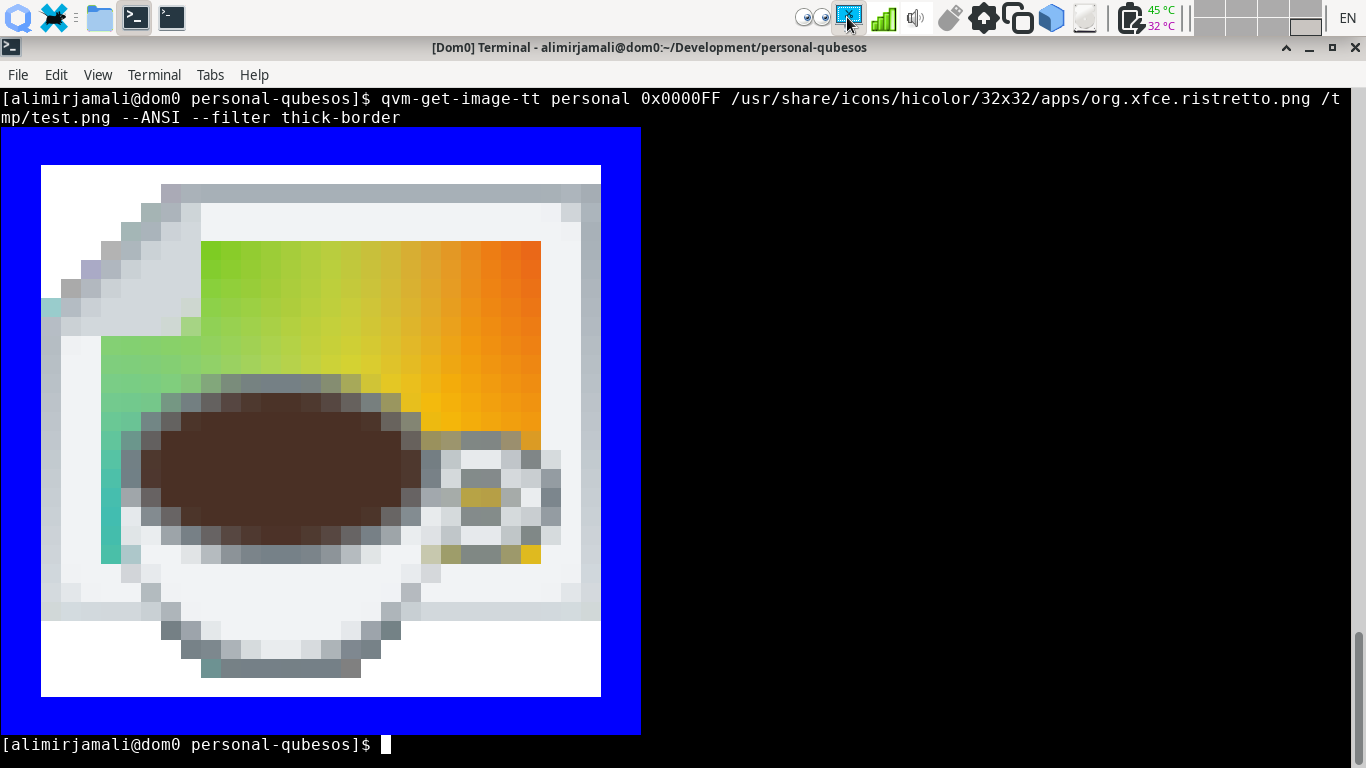
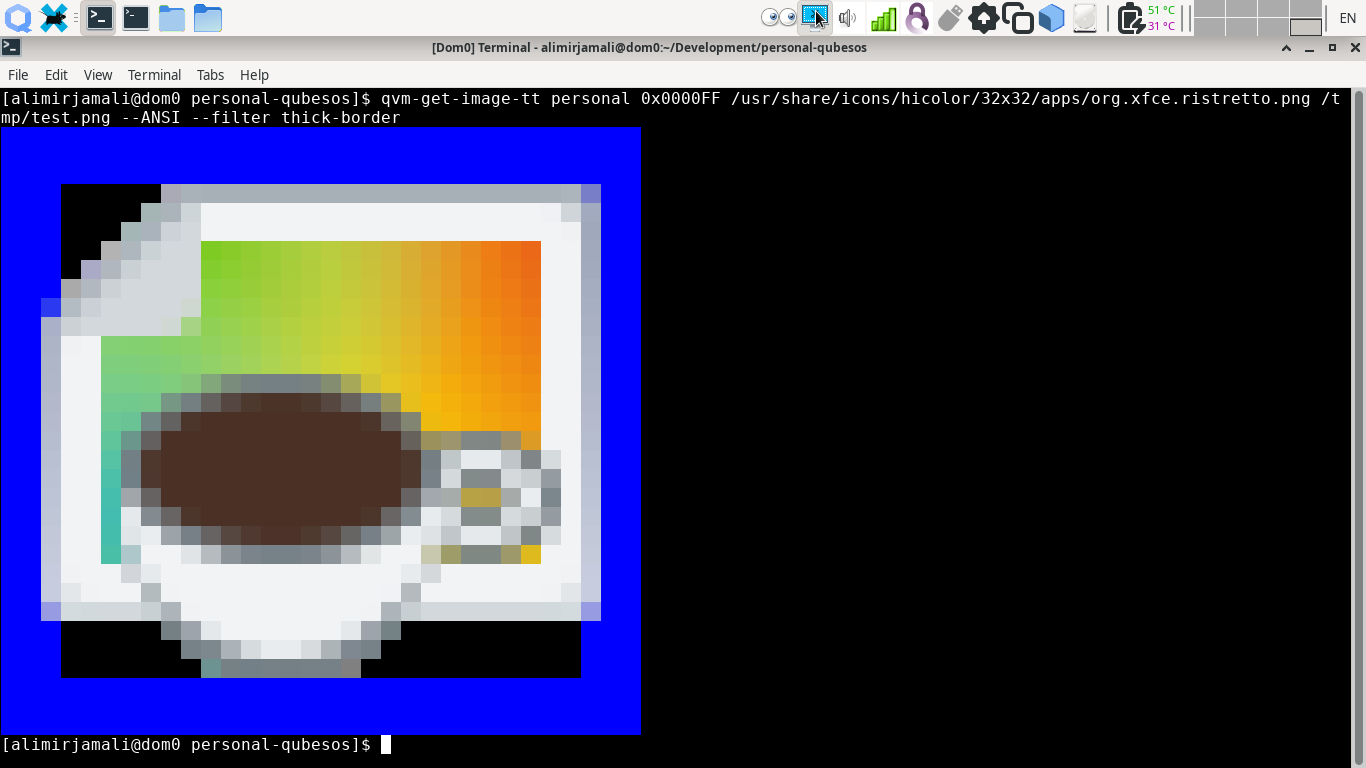
Refactoring qubesimgconvertertt. Upgrading borders with Alphacompositor

diff --git a/qubesimgconvertertt/__init__.py b/qubesimgconvertertt/__init__.py
@@ -24,6 +24,7 @@
 import qubesimgconverter
 from qubesimgconverter import hex_to_int
 import numpy
+import math
 
 '''Note to self: qubesimgconverter.Image.tint is using numpy's old- '''
 '''deprecated binary mode of fromstring. as it behaves surprisingly-'''
@@ -45,13 +46,13 @@ class Image(qubesimgconverter.Image):
             print("\033[0m")
 
     def alphacompositor(self, back):
-        ''' Compositing self on top of another Image. See: '''
+        ''' Compositing Image on top of another Image. See: '''
         ''' https://en.wikipedia.org/wiki/Alpha_compositing for more info '''
         tPixels = numpy.frombuffer(self._rgba, dtype=numpy.uint8).reshape(\
                 self.height, self.width, 4).astype(numpy.single)
         bPixels = numpy.frombuffer(back._rgba, dtype=numpy.uint8).reshape(\
                 back.height, back.width, 4).astype(numpy.single)
-        ''' If top image and back image dimensions are different: '''
+        ''' Top image and back image dimensions might be different: '''
         w = max(self.width, back.width)
         h = max(self.height, back.height)
         tPixels = numpy.pad(tPixels, [(0, w - self.width), \
@@ -74,62 +75,43 @@ class Image(qubesimgconverter.Image):
 
         return self.__class__(rgba=outRGBA.tobytes(), size=[w, h])
 
-    def overlay(self, colour):
+    def overlay(self, color):
         ''' Overlay image on a solid block of color, using its Alpha channel '''
-        rb, gb, bb = hex_to_int(colour)
-        pixels = numpy.frombuffer(self._rgba, dtype=numpy.uint8).reshape(\
-                self.height * self.width, 4).astype(numpy.uint32)
-        r = pixels[:, 0]
-        g = pixels[:, 1]
-        b = pixels[:, 2]
-        a = pixels[:, 3]
-        r = (((a * r) + (255 - a) * rb) / 255).astype(numpy.uint8)
-        g = (((a * g) + (255 - a) * gb) / 255).astype(numpy.uint8)
-        b = (((a * b) + (255 - a) * bb) / 255).astype(numpy.uint8)
-        a.fill(255)
-        pixelso = numpy.column_stack((r, g, b, a.astype(numpy.uint8)))
-        return self.__class__(rgba=pixelso.tobytes(), size=self._size)
-
-    def border(self, colour, percent):
-        ''' Apply a border to image at the border width of percent of  '''
-        ''' minimum of image width & height. Assuming (0. < percent < 100.) '''
-        ''' Even though border with over 50.% percent would be meaningless '''
-        rb, gb, bb = hex_to_int(colour)
-        mindim = min(self.height, self.width)
-        ''' 8x8 icons do not need borders. 16x16 icons could have only 1 pix'''
-        if mindim <= 8:
-            return self
-        elif mindim <= 16:
-            width = 1; ab = 0
-        else:
-            width = int(mindim * percent / 100.)
-            ''' Anti-aliasing border edges. We need alpha of border at edges '''
-            ab = int(((mindim * percent) % 100.) * 255. / 100.)
-
-        pixels = numpy.frombuffer(self._rgba, dtype=numpy.uint8).reshape(\
-                self.height, self.width, 4).astype(numpy.uint32)
-
-        if ab>0:
-            border=numpy.array([rb, gb, bb, ab])
-            pixels[0:width+1, :] = (pixels[0:width+1, :] + border) / 2
-            pixels[:, 0:width+1] = (pixels[:, 0:width+1] + border) / 2
-            pixels[-width-1:, :] = (pixels[-width-1:, :] + border) / 2
-            pixels[:, -width-1:] = (pixels[:, -width-1:] + border) / 2
-
-        pixels[0:width, :] = rb, gb, bb, 255
-        pixels[:, 0:width] = rb, gb, bb, 255
-        pixels[-width:, :] = rb, gb, bb, 255
-        pixels[:, -width:] = rb, gb, bb, 255
+        pixels = numpy.frombuffer(self._rgba, dtype=numpy.uint8).reshape( \
+                self.height * self.width, 4).astype(numpy.integer)
+        back = numpy.array(hex_to_int(color))
+        alpha = pixels[..., 3]
+        pixels[..., :3] = (pixels[..., :3] * alpha[..., numpy.newaxis] + \
+                back[numpy.newaxis, ...] * \
+                (255 - alpha[..., numpy.newaxis])) / 255
+        pixels[..., 3].fill(255)
         return self.__class__(rgba=pixels.astype(numpy.uint8).tobytes(), \
                 size=self._size)
 
+    def border(self, color, percent):
+        ''' Apply a border to image. Border width in pxiels as percent of    '''
+        ''' minimum of image width & height. Assuming (0. < percent < 50.) '''
+        mindim = min(self.height, self.width)
+        ''' 8x8 or smaller icons do not need borders. '''
+        if mindim <= 8: return self
+        r, g, b = hex_to_int(color)
+        border = numpy.full((self.width, self.height, 4), [r, g, b, 255])
+        ''' Proper passe-partout technique for best quality '''
+        edge = int(mindim * percent / 100.)
+        antialias = int(((mindim * percent) % 100.) * 255. / 100.)
+        border[edge:-edge, edge:-edge]=numpy.array([r, g, b, antialias])
+        back = math.ceil(mindim * percent / 100.)
+        border[back:-back, back:-back]=numpy.array([255, 255, 255, 0])
+        return self.__class__(rgba=border.astype(numpy.uint8).tobytes(), \
+                size=self._size).alphacompositor(self)
+
     def thin_border(self, color):
-        """ 1.5 Pixel border is nice for thin borders of 32x32 icons """
-        return self.border(color, 4.6875)
+        """ 1.536 Pixel border is nice for thin borders of 32x32 icons """
+        return self.border(color, 4.8)
 
     def thick_border(self, color):
-        """ 2 Pixel border is nice for thick borders of 32x32 icons """
-        return self.border(color, 6.25)
+        """ 2.048 Pixel border is nice for thick borders of 32x32 icons """
+        return self.border(color, 6.4)
 
     def untouched(self):
         ''' Returning the untouched image '''
@@ -138,13 +120,13 @@ class Image(qubesimgconverter.Image):
     def invert(self):
         ''' Inverting image for a paranoid effect '''
         pixels = numpy.frombuffer(self._rgba, dtype=numpy.uint8).reshape(\
-                self.height * self.width, 4).astype(numpy.uint32)
-        pixels[:, :3] = 255 - pixels[:, :3]
+                self.height * self.width, 4).astype(numpy.integer)
+        pixels[..., :3] = 255 - pixels[..., :3]
         return self.__class__(rgba=pixels.astype(numpy.uint8).tobytes(), \
                 size=self._size)
 
     def mirror(self, axes):
-        ''' Mirror/flip image. I guess no one would use this'''
+        ''' Mirror/flip image. I guess no one would ever use this'''
         pixels = numpy.frombuffer(self._rgba, dtype=numpy.uint8).reshape(\
                 self.height, self.width, 4)
         pixels = numpy.flip(pixels, axes)

diff --git a/qubesimgconvertertt/README.md b/qubesimgconvertertt/README.md
@@ -71,8 +71,8 @@ Overlaying image on provided color using its Alpha channel.
 
 Thin and Thick borders. Bordering supports percentage of image instead of fixed
 pixel count. This allows consistent results on HiDPI displays. The anti-aliased 
-1.5 pixel width thin border for 32x32 icons is much more distinguishable and
-comfortable than 1 pixel width.
+1.536 pixel width thin-border for 32x32 icons is much more distinguishable and
+comfortable than the fixed 1 pixel width.
 
 ![](effect-thin-border.png)
 
